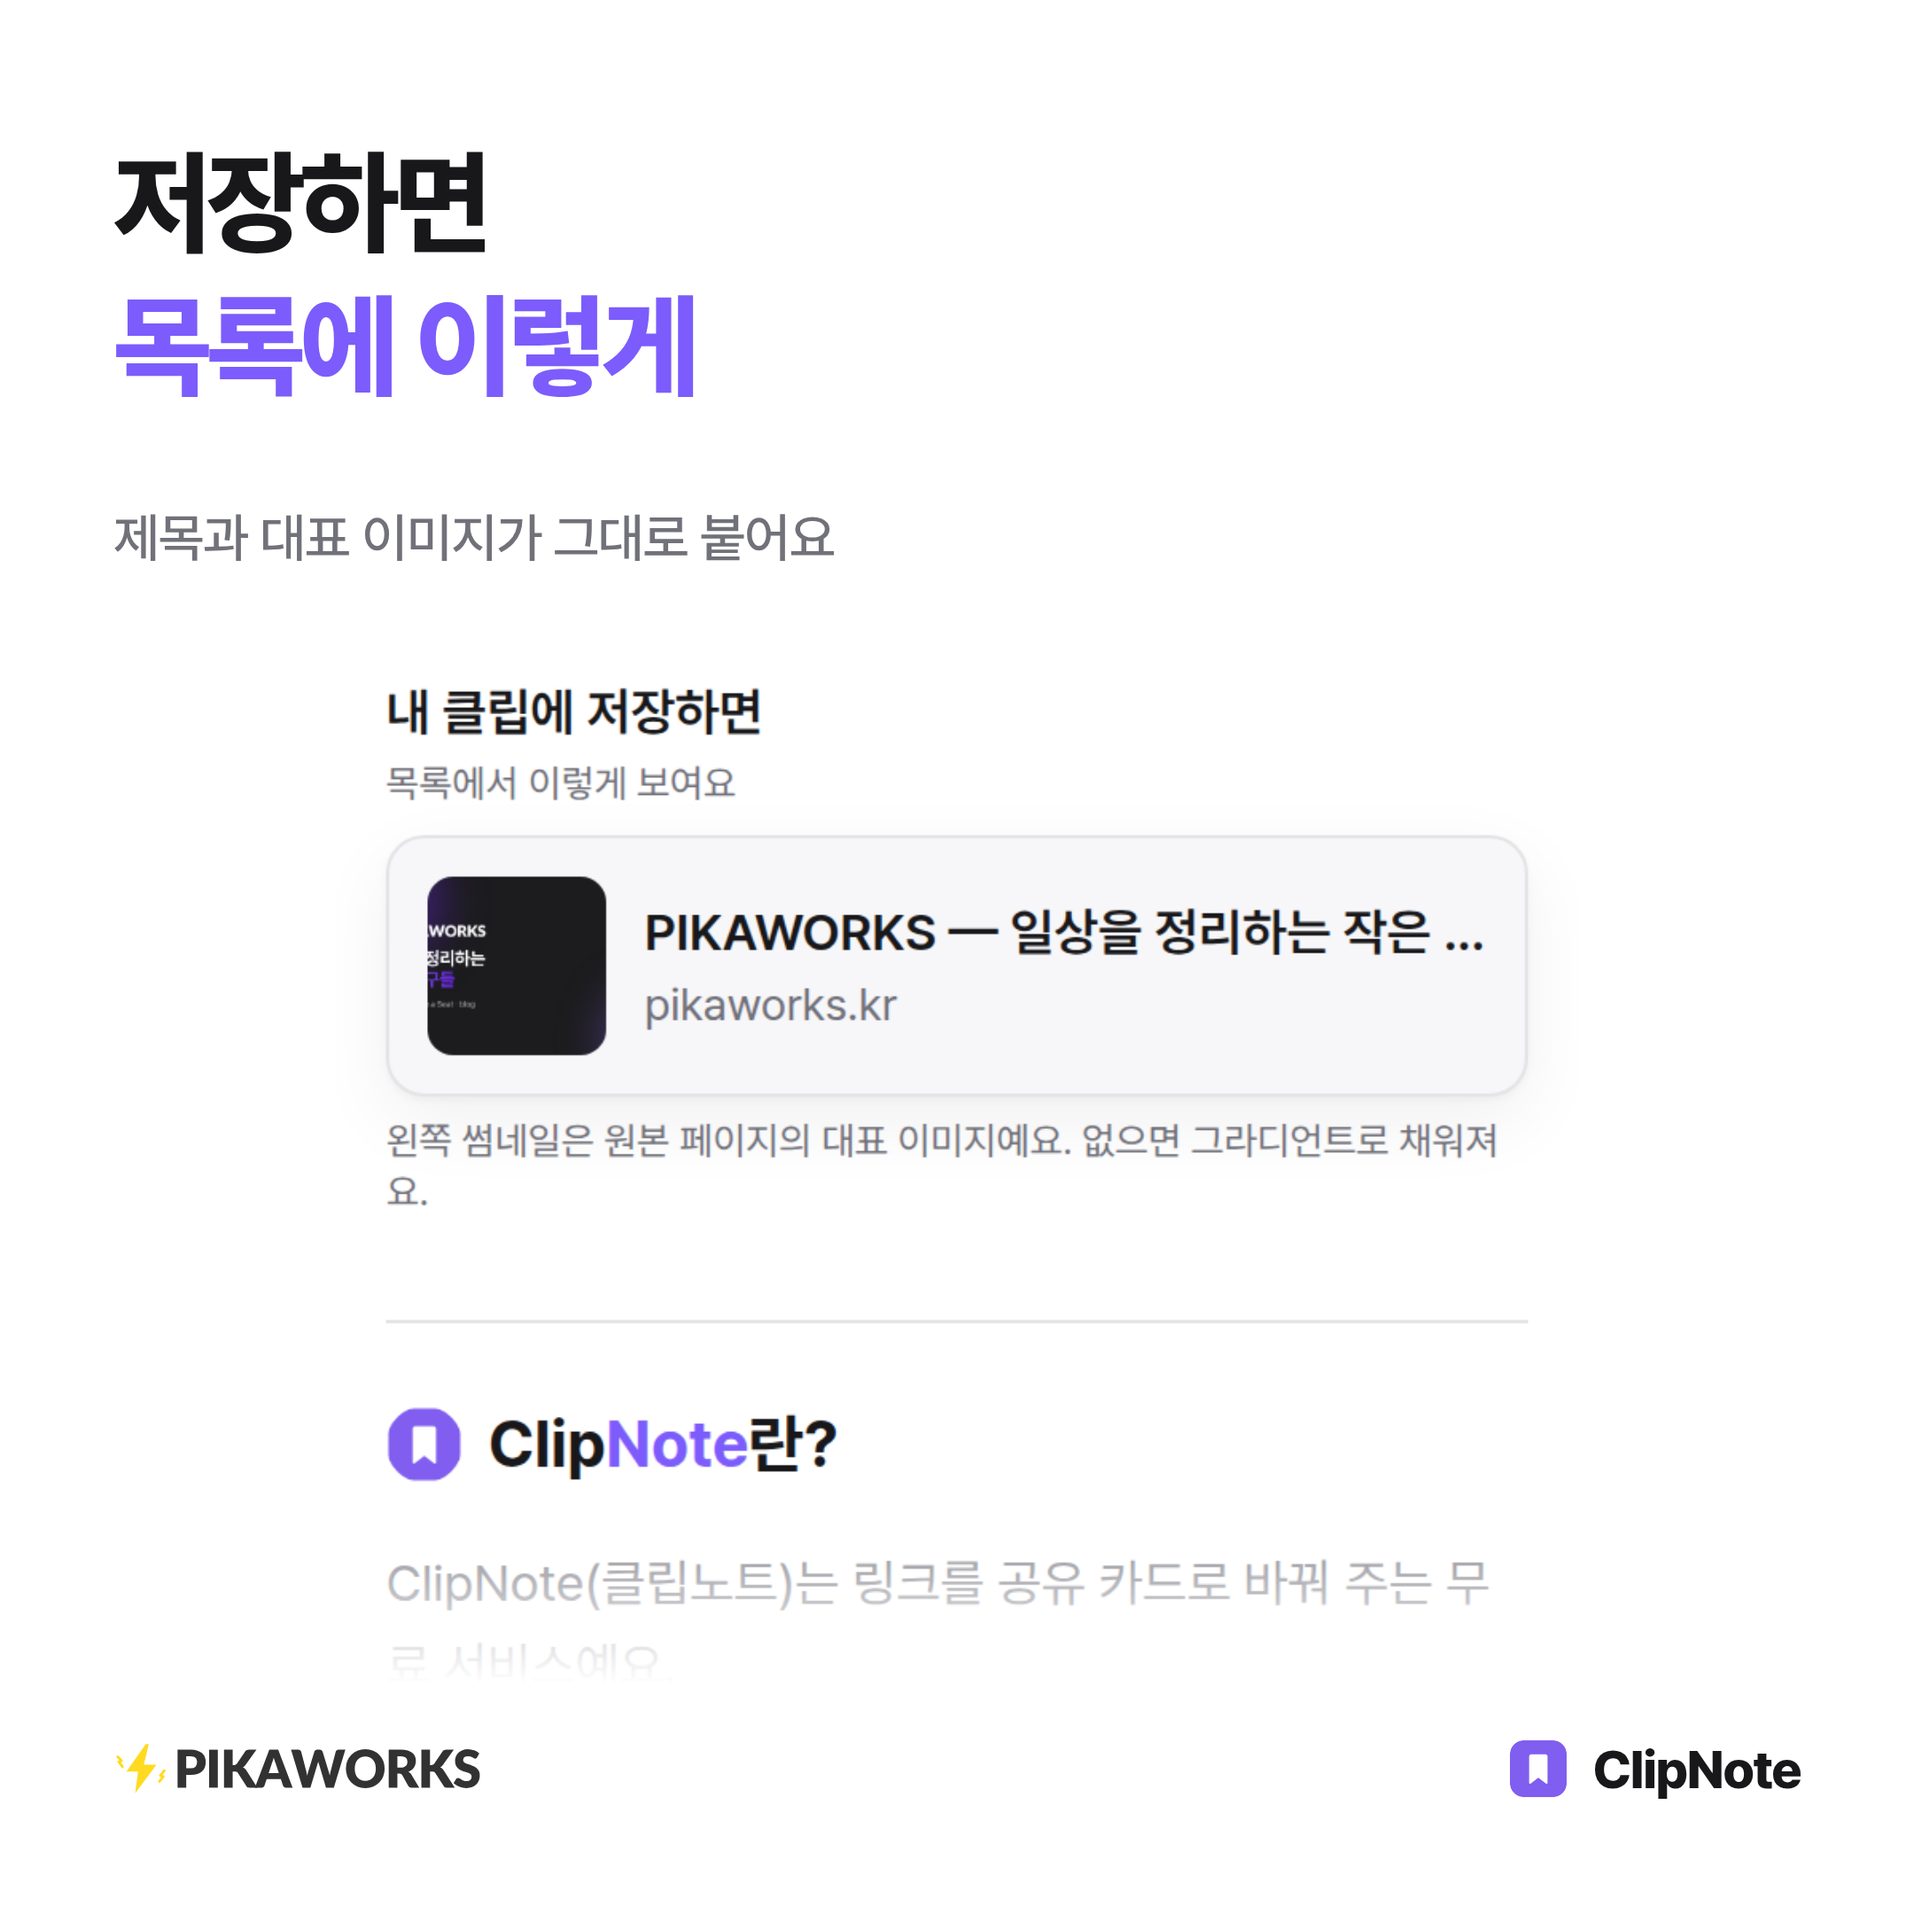
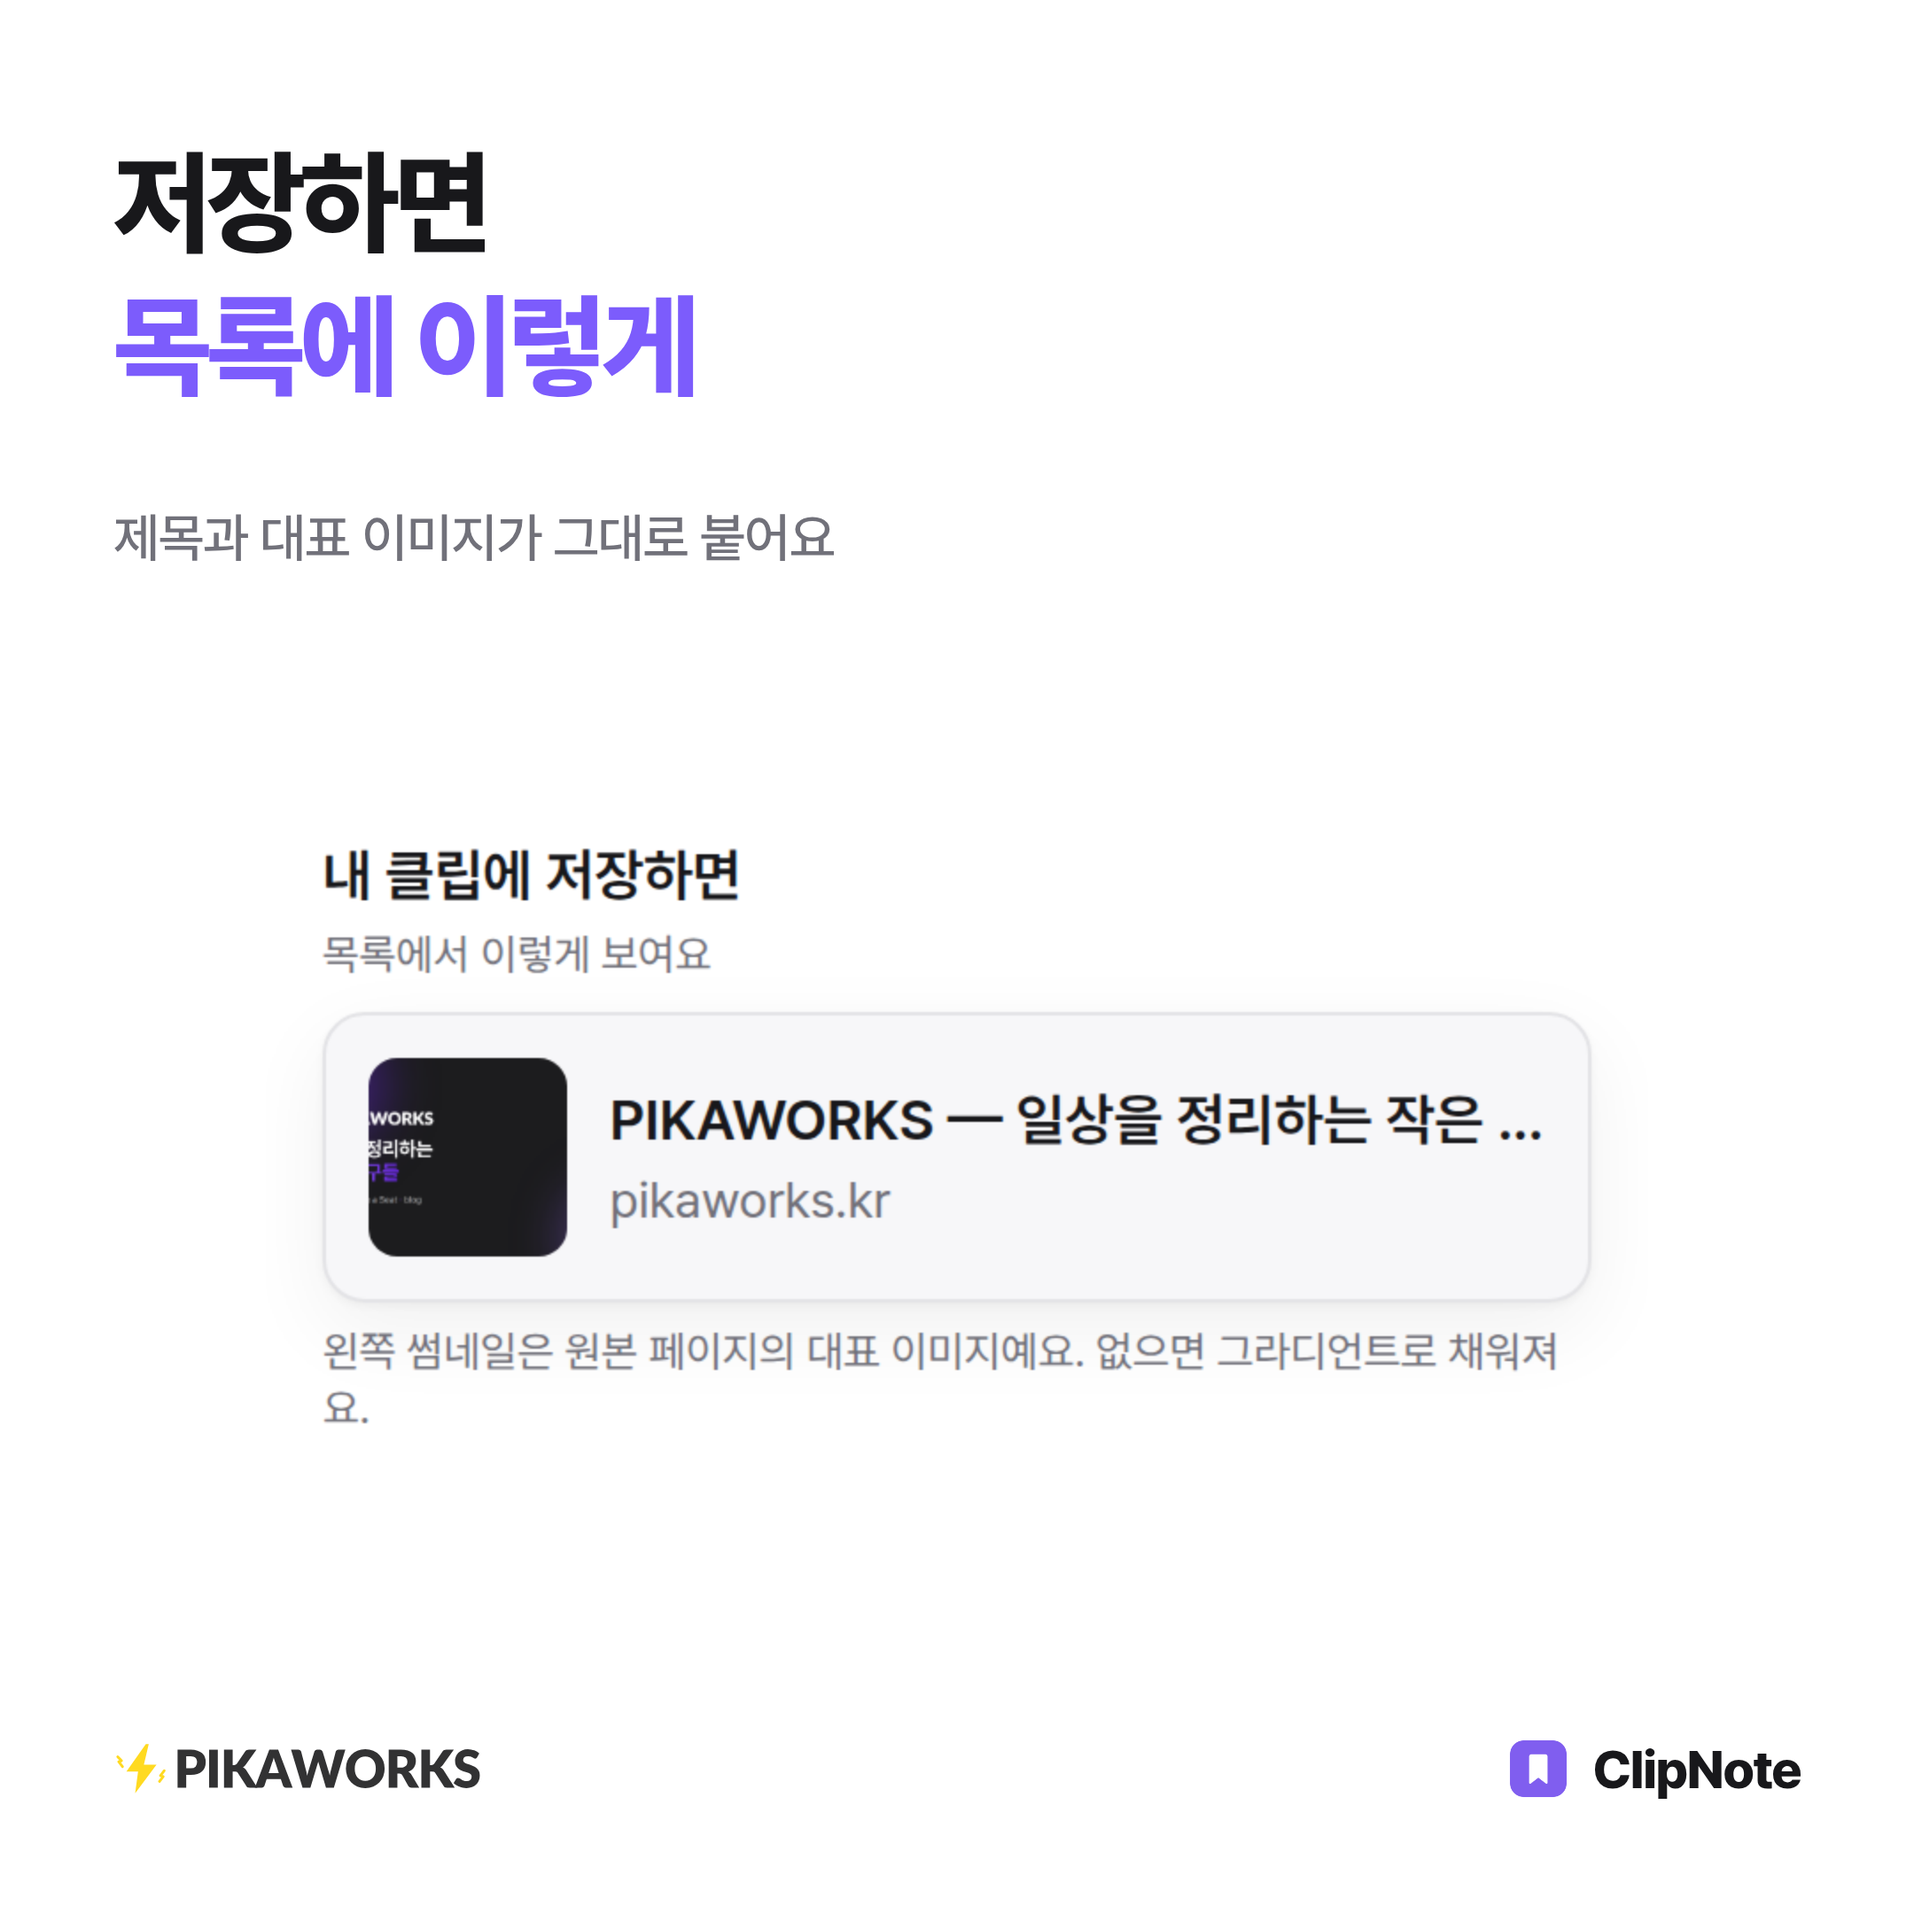
design(clipnote-2): 스크린샷에서 이 게시물과 무관한 영역 제거
넣은 화면 두 장에 이 게시물이 말하지 않는 부분이 붙어 있었다.

- 공유 카드(3장): 상단 "공유 카드·짧은 링크는 로그인하면 만들어져요"
  안내 바와 그 아래 빈 공백을 뺐다 (y 0~140). 카드가 주인공인데 안내가
  먼저 눈에 들어왔다
- 내 클립 목록(2장): 하단 "ClipNote란?" 소개 절 전체를 뺐다 (y 400~).
  서비스 일반 소개라 이 게시물의 저장·정리 이야기와 상관없다

자를 위치는 눈대중이 아니라 픽셀로 잡았다. 각 행이 배경뿐인지 검사해
콘텐츠 블록 사이의 빈 구간을 찾고 그 안에서 끊었다. 대충 자르면 글자가
반쯤 남는다.

원본은 남기고 -crop.png 로 따로 만들었다. 다음에 다른 각도로 다시 자를 수
있으므로 원본을 덮지 않는다. SOURCE.md 표에도 두 줄 추가했다.

마스크 페이드는 걷어냈다. 필요한 영역만 남기면 아래가 중간에 끊기지
않으므로 흘려보낼 이유가 없다. 끊기지 않는 것을 흘려보내면 오히려 덜 만든
화면처럼 보인다.

남는 것 하나 — 잘라낸 로그인 안내가 캡션의 "그 짧은 URL은 로그인하면
만들 수 있어요" 를 화면으로 증명하던 부분이었다. 이제 그 근거는 캡션
글로만 남는다. 사실이 틀린 건 아니지만 대비는 잃었다.

Claude-Session: https://claude.ai/code/session_01QZXqHKWR1E4ZNAZFY5AzgV

Changed region(s): [[0.1551, 0.3412, 0.8065, 0.7755], [0.1861, 0.8065, 0.7755, 0.8375]]

diff --git a/assets/shots/SOURCE.md b/assets/shots/SOURCE.md
@@ -85,6 +85,8 @@
 | `cn-mobile-card.png` | 공유 카드 미리보기 (단독) | 390 폭 @2x |
 | `cn-mobile-list.png` | 내 클립 목록 미리보기 (단독) | 390 폭 @2x |
 | `cn-og-card.png` | `/api/og` 가 실제로 뱉은 공유 카드 이미지 | 1200×630 |
+| `cn-mobile-list-crop.png` | 위 목록에서 "ClipNote란?" 절을 뺀 것 | 780×380 |
+| `cn-mobile-card-crop.png` | 위 공유 카드에서 상단 로그인 안내 바를 뺀 것 | 740×572 |
 
 `cn-mobile-form.png`·`cn-mobile-result.png` 두 장이 clipnote-1 슬라이드 3 에
 나란히 들어간다. 같은 페이지를 스크롤 위치만 달리해 두 번 찍은 것이다 —
